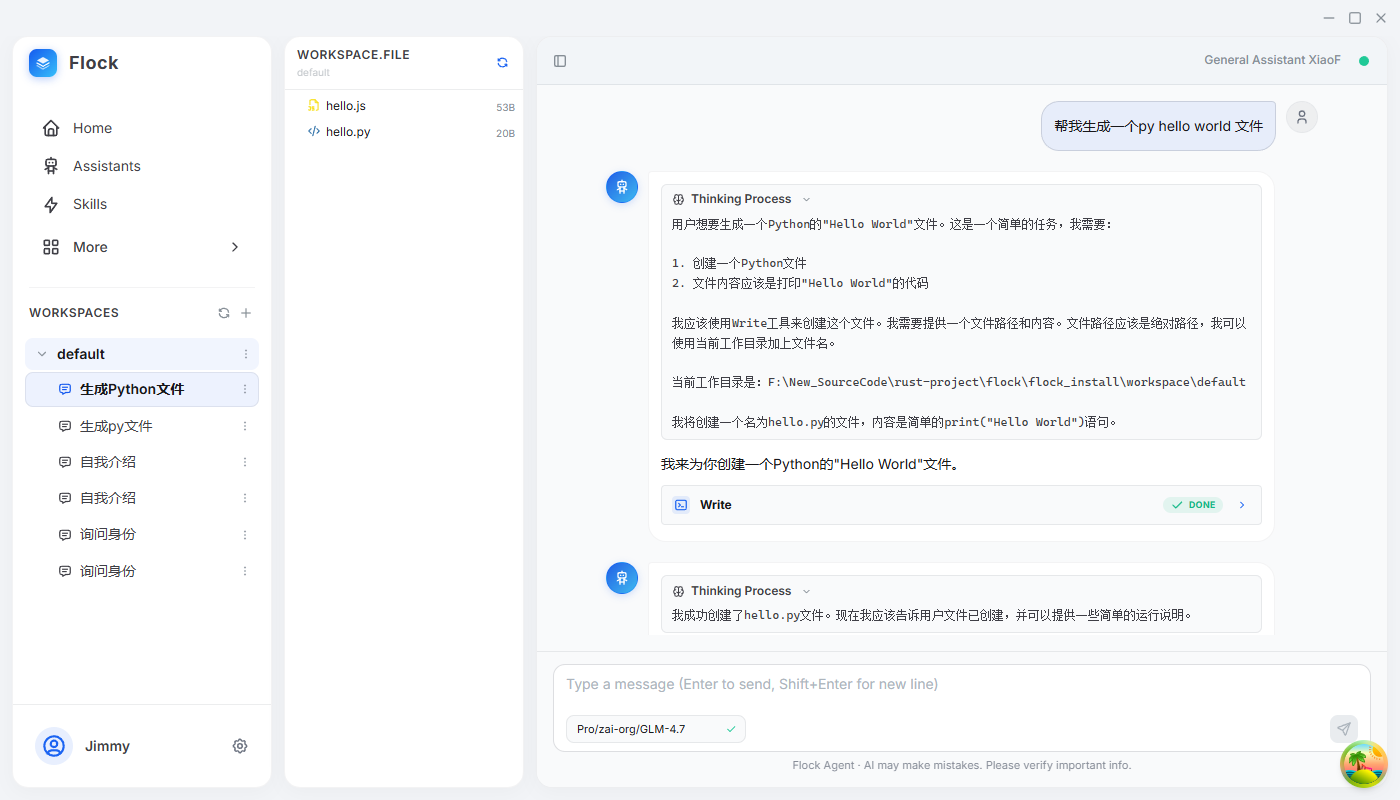
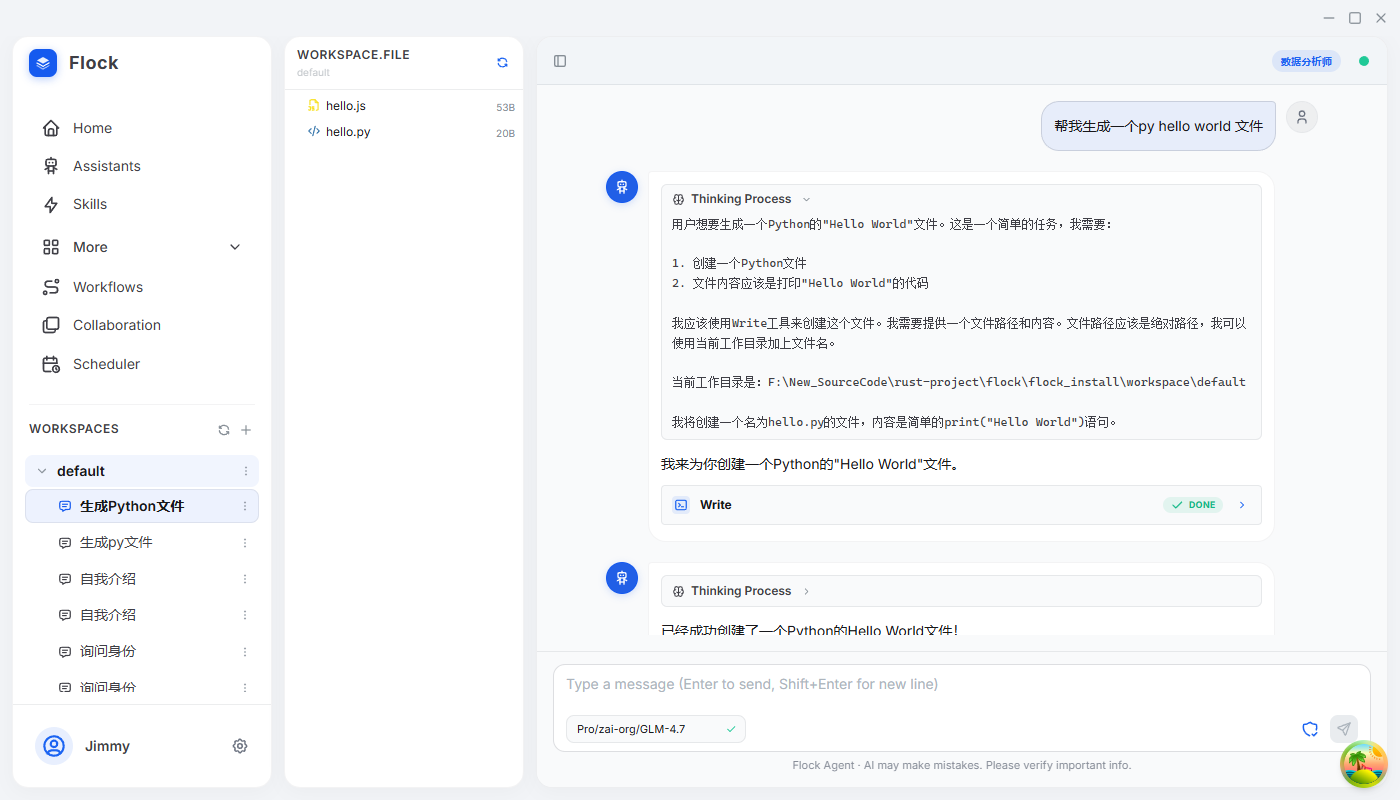
style: optimize appearance and font consistency (#245)

diff --git a/flock-ui/src/components/Settings/ModelProvider/index.tsx b/flock-ui/src/components/Settings/ModelProvider/index.tsx
@@ -497,8 +497,8 @@ export default function ModelProviderPage() {
                       </Group>
                       <Badge
                         size="sm"
-                        variant="gradient"
-                        gradient={isConfigured ? { from: 'teal', to: 'blue', deg: 105 } : { from: 'orange', to: 'red', deg: 105 }}
+                        variant="light"
+                        color={isConfigured ? 'teal' : 'orange'}
                         leftSection={isConfigured ? <IconCheck size={12} /> : <IconX size={12} />}
                         style={{ textTransform: 'none' }}
                       >

diff --git a/flock-ui/src/index.css b/flock-ui/src/index.css
@@ -61,8 +61,8 @@ body, input, button, select, textarea {
   --flock-text-secondary: #d4d4d8; /* zinc-300 */
   --flock-text-primary: #f4f4f5; /* zinc-100 */
   --flock-text-bright: #ffffff;
-  --flock-accent: #36bffa; /* Dify classic blue in dark mode */
-  --flock-accent-soft: rgba(54, 191, 250, 0.12);
+  --flock-accent: #155aef; /* Solid classic blue globally */
+  --flock-accent-soft: rgba(21, 90, 239, 0.16);
   --mantine-color-dimmed: #a1a1aa;
 }
 

diff --git a/flock-ui/src/pages/Assistant/IconPicker.tsx b/flock-ui/src/pages/Assistant/IconPicker.tsx
@@ -32,12 +32,12 @@ export function IconPicker({
           onClick={() => setOpened(o => !o)}
           style={{
             cursor: 'pointer',
-            background: 'linear-gradient(135deg, #6366f1 0%, #8b5cf6 100%)',
+            background: 'var(--flock-accent)',
             fontSize: 20,
             flexShrink: 0,
             border: '2px solid var(--flock-border-dim)',
             transition: 'box-shadow 0.2s',
-            boxShadow: opened ? '0 0 0 3px rgba(99,102,241,0.3)' : undefined,
+            boxShadow: opened ? '0 0 0 3px rgba(21, 90, 239, 0.3)' : undefined,
           }}
         >
           {value}

diff --git a/flock-ui/src/pages/Assistant/index.tsx b/flock-ui/src/pages/Assistant/index.tsx
@@ -110,7 +110,7 @@ export function AssistantPage() {
       {/* 页头 */}
       <Group gap="sm" px="xl" pt="md" pb="sm" justify="space-between">
         <Group gap="sm">
-          <ThemeIcon size={36} radius="md" variant="gradient" gradient={{ from: 'blue', to: 'cyan' }}>
+          <ThemeIcon size={36} radius="md" style={{ background: 'var(--flock-accent)' }}>
             <IconRobot size={20} />
           </ThemeIcon>
           <Box>
@@ -128,7 +128,7 @@ export function AssistantPage() {
           size="sm"
           onClick={handleOpenCreate}
           style={{
-            background: 'linear-gradient(135deg, #155aef 0%, #36bffa 100%)',
+            background: 'var(--flock-accent)',
             boxShadow: '0 2px 10px rgba(21, 90, 239, 0.25)',
           }}
         >

diff --git a/flock-ui/src/pages/Home/AssistantPicker.tsx b/flock-ui/src/pages/Home/AssistantPicker.tsx
@@ -50,7 +50,7 @@ export function AssistantPicker({
               fontSize: 13,
               fontWeight: isActive ? 600 : 500,
               transition: 'all 0.18s ease',
-              boxShadow: isActive ? '0 2px 8px rgba(99,102,241,0.18)' : 'none',
+              boxShadow: isActive ? '0 2px 8px rgba(21, 90, 239, 0.18)' : 'none',
             }}
           >
             <Avatar
@@ -58,7 +58,7 @@ export function AssistantPicker({
               radius="xl"
               style={{
                 background: isActive
-                  ? 'linear-gradient(135deg, #6366f1 0%, #8b5cf6 100%)'
+                  ? 'var(--flock-accent)'
                   : 'var(--flock-bg-surface)',
                 fontSize: 13,
                 border: '1px solid transparent',

diff --git a/flock-ui/src/components/Layout/Sidebar/FlockLogo.tsx b/flock-ui/src/components/Layout/Sidebar/FlockLogo.tsx
@@ -8,7 +8,7 @@ export function FlockLogo() {
           width: 28,
           height: 28,
           borderRadius: 8,
-          background: 'linear-gradient(135deg, #155aef 0%, #36bffa 100%)',
+          background: 'var(--flock-accent)',
           display: 'flex',
           alignItems: 'center',
           justifyContent: 'center',

diff --git a/flock-ui/src/components/chat/ChatPanel.tsx b/flock-ui/src/components/chat/ChatPanel.tsx
@@ -144,7 +144,7 @@ function MessageBubble({ message }: { message: ChatMessage }) {
           size={32}
           radius="xl"
           style={{
-            background: 'linear-gradient(135deg, var(--flock-accent) 0%, #36bffa 100%)',
+            background: 'var(--flock-accent)',
             border: '1px solid rgba(21, 90, 239, 0.25)',
             boxShadow: '0 2px 8px rgba(21, 90, 239, 0.2)',
             flexShrink: 0,

diff --git a/flock-ui/src/pages/Assistant/AssistantCard.tsx b/flock-ui/src/pages/Assistant/AssistantCard.tsx
@@ -39,7 +39,7 @@ export function AssistantCard({
             size={40}
             radius="xl"
             style={{
-              background: 'linear-gradient(135deg, #155aef 0%, #36bffa 100%)',
+              background: 'var(--flock-accent)',
               fontSize: 20,
               flexShrink: 0,
               boxShadow: '0 2px 6px rgba(21, 90, 239, 0.2)',

diff --git a/flock-ui/src/pages/Assistant/AssistantFormModal.tsx b/flock-ui/src/pages/Assistant/AssistantFormModal.tsx
@@ -375,7 +375,7 @@ export function AssistantFormModal({
           loading={saving}
           leftSection={isEditing ? <IconCheck size={16} /> : <IconPlus size={16} />}
           onClick={handleSave}
-          style={{ background: 'linear-gradient(135deg, #155aef 0%, #36bffa 100%)' }}
+          style={{ background: 'var(--flock-accent)' }}
         >
           {isEditing ? t('common.saveChanges') : t('assistant.createBtn')}
         </Button>

diff --git a/flock-ui/src/pages/Home/index.tsx b/flock-ui/src/pages/Home/index.tsx
@@ -336,7 +336,7 @@ export function HomeView() {
                   onClick={handleSend}
                   disabled={!canSend}
                   style={{
-                    background: canSend ? 'linear-gradient(135deg, #155aef 0%, #36bffa 100%)' : undefined,
+                    background: canSend ? 'var(--flock-accent)' : undefined,
                     boxShadow: canSend ? '0 2px 10px rgba(21, 90, 239, 0.25)' : 'none',
                     transition: 'all 0.2s ease',
                   }}

diff --git a/flock-ui/src/pages/Workspace/components/PreviewPanel/FallbackView.tsx b/flock-ui/src/pages/Workspace/components/PreviewPanel/FallbackView.tsx
@@ -70,7 +70,7 @@ export function FallbackView({ fileName, ext, filePath, activeWorkspaceId }: Fal
         color="blue"
         leftSection={<IconExternalLink size={16} />}
         style={{
-          background: 'linear-gradient(135deg, #155aef 0%, #36bffa 100%)',
+          background: 'var(--flock-accent)',
           borderRadius: 12,
           boxShadow: '0 4px 16px rgba(21, 90, 239, 0.2)',
         }}

diff --git a/flock-ui/src/pages/Workspace/components/PreviewPanel/OfficeView.tsx b/flock-ui/src/pages/Workspace/components/PreviewPanel/OfficeView.tsx
@@ -73,7 +73,7 @@ export function OfficeView({ fileName, ext, filePath, activeWorkspaceId }: Offic
         color="blue"
         leftSection={<IconExternalLink size={16} />}
         style={{
-          background: 'linear-gradient(135deg, #155aef 0%, #36bffa 100%)',
+          background: 'var(--flock-accent)',
           borderRadius: 12,
           boxShadow: '0 4px 16px rgba(21, 90, 239, 0.2)',
         }}